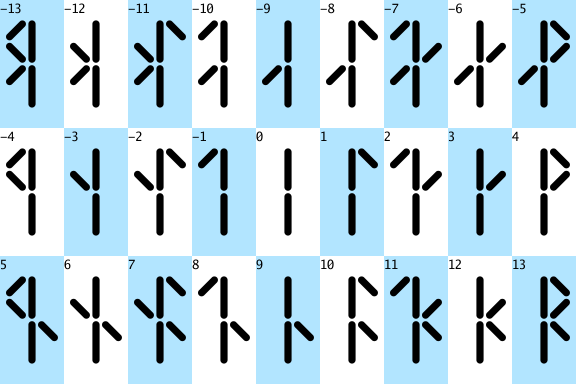
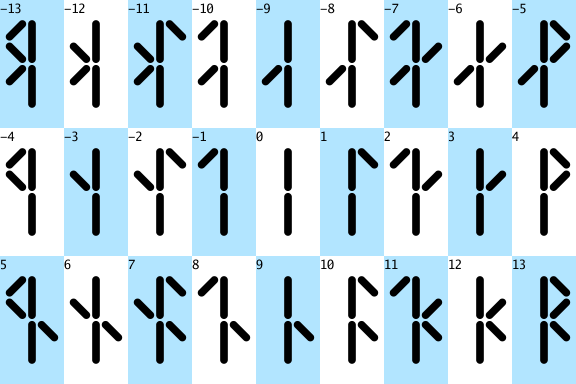
ref base27 digit2

diff --git a/digits/base27/dd2.go b/digits/base27/dd2.go
@@ -8,50 +8,148 @@ import (
 
 type DigitDrawer2 struct{}
 
-func (DigitDrawer2) DrawDigit(c *gg.Context, b geom.Bounds, digit int) {
+func (dd DigitDrawer2) DrawDigit(c *gg.Context, b geom.Bounds, digit int) {
+	//dd.drawDigit_v1(c, b, digit)
+	dd.drawDigit_v2(c, b, digit)
+}
+
+// func (DigitDrawer2) drawDigit_v1(c *gg.Context, b geom.Bounds, digit int) {
+
+// 	b = geom.BoundsAspect(b, AspectRatio)
+
+// 	const (
+// 		koefDA = 0.4
+// 		//koefDA = 0.5
+
+// 		koefLineWidth = 0.75
+// 		//koefLineWidth = 0.8
+// 		//koefLineWidth = 0.9
+// 		//koefLineWidth = 1.0
+
+// 		//enableAll = true
+// 		enableAll = false
+// 	)
+
+// 	var (
+// 		w = min(b.Dx(), b.Dy()/2)
+
+// 		dA = w / 2 * koefDA
+// 		dB = (w/2 - dA) / 2
+
+// 		xA = dA
+// 		xB = dB
+
+// 		yA = dA
+// 		yB = dB
+
+// 		lineWidth = dB * koefLineWidth
+// 	)
+
+// 	c.SetLineCap(gg.LineCapRound)
+// 	c.SetLineWidth(lineWidth)
+
+// 	center := b.Center()
+
+// 	// Draw vertical lines
+// 	if true {
+// 		c.MoveTo(center.X, center.Y-(2*yA+yB+yB/2))
+// 		c.LineTo(center.X, center.Y-(yB/2))
+
+// 		c.MoveTo(center.X, center.Y+(yB/2))
+// 		c.LineTo(center.X, center.Y+(2*yA+yB+yB/2))
+// 	}
+
+// 	trits := calcTritsBase27(digit)
+
+// 	var (
+// 		x1 = xB
+// 		x2 = xA + xB
+
+// 		y0 = center.Y - (2*yA + yB + yB/2)
+// 		y  = y0
+// 		dy = yA + yB
+// 	)
+// 	for i, trit := range trits {
+// 		if (i % 2) == 0 {
+// 			if enableAll || (trit == -1) {
+// 				c.MoveTo(center.X-x1, y+0*yA)
+// 				c.LineTo(center.X-x2, y+1*yA)
+// 			}
+// 			if enableAll || (trit == +1) {
+// 				c.MoveTo(center.X+x1, y+0*yA)
+// 				c.LineTo(center.X+x2, y+1*yA)
+// 			}
+// 		} else {
+// 			if enableAll || (trit == -1) {
+// 				c.MoveTo(center.X-x2, y+0*yA)
+// 				c.LineTo(center.X-x1, y+1*yA)
+// 			}
+// 			if enableAll || (trit == +1) {
+// 				c.MoveTo(center.X+x2, y+0*yA)
+// 				c.LineTo(center.X+x1, y+1*yA)
+// 			}
+// 		}
+// 		y += dy
+// 	}
+
+// 	c.Stroke()
+// }
+
+func (DigitDrawer2) drawDigit_v2(c *gg.Context, b geom.Bounds, digit int) {
 
 	b = geom.BoundsAspect(b, AspectRatio)
 
-	const (
-		koefDA = 0.4
-		//koefDA = 0.5
+	v := b.Vmin()
 
-		koefLineWidth = 0.75
-		//koefLineWidth = 0.8
-		//koefLineWidth = 0.9
-		//koefLineWidth = 1.0
+	c.Push()
+	defer c.Pop()
 
-		//enableAll = true
-		enableAll = false
+	c.Translate(b.Min.X, b.Min.Y)
+	c.Scale(v, v)
+
+	// size 100x200 : dx = 100, dy = 200
+
+	var (
+		// dA              = 20.0
+		// dB              = 20.0
+		// lineWidthFactor = 1.0
+
+		// dA            = 20.0
+		// dB            = 15.0
+		// lineWidthFactor = 0.8
+
+		dA              = 20.0
+		dB              = (50 - dA) / 2
+		lineWidthFactor = 0.8
 	)
 
 	var (
-		w = min(b.Dx(), b.Dy()/2)
-
-		dA = w / 2 * koefDA
-		dB = (w/2 - dA) / 2
-
 		xA = dA
 		xB = dB
 
 		yA = dA
 		yB = dB
 
-		lineWidth = dB * koefLineWidth
+		lineWidth = dB * lineWidthFactor
+
+		//enableAll = true
+		enableAll = false
 	)
 
 	c.SetLineCap(gg.LineCapRound)
-	c.SetLineWidth(lineWidth)
+	c.SetLineWidth(lineWidth * v)
 
-	center := b.Center()
+	center := geom.MakePoint2f(50, 100)
+
+	yH := 2*yA + yB + yB/2
 
 	// Draw vertical lines
 	if true {
-		c.MoveTo(center.X, center.Y-(2*yA+yB+yB/2))
+		c.MoveTo(center.X, center.Y-yH)
 		c.LineTo(center.X, center.Y-(yB/2))
 
 		c.MoveTo(center.X, center.Y+(yB/2))
-		c.LineTo(center.X, center.Y+(2*yA+yB+yB/2))
+		c.LineTo(center.X, center.Y+yH)
 	}
 
 	trits := calcTritsBase27(digit)
@@ -60,7 +158,7 @@ func (DigitDrawer2) DrawDigit(c *gg.Context, b geom.Bounds, digit int) {
 		x1 = xB
 		x2 = xA + xB
 
-		y0 = center.Y - (2*yA + yB + yB/2)
+		y0 = center.Y - yH
 		y  = y0
 		dy = yA + yB
 	)
@@ -89,74 +187,3 @@ func (DigitDrawer2) DrawDigit(c *gg.Context, b geom.Bounds, digit int) {
 
 	c.Stroke()
 }
-
-// func (DigitDrawer2) DrawDigit(c *gg.Context, b geom.Bounds, digit int) {
-
-// 	b = geom.BoundsAspect(b, AspectRatio)
-// 	v := b.Vmin()
-
-// 	c.Push()
-// 	defer c.Pop()
-
-// 	c.Translate(b.Min.X, b.Min.Y)
-// 	c.Scale(v, v)
-
-// 	lw := 10.0
-// 	c.SetLineWidth(lw * v)
-// 	c.SetLineCap(gg.LineCapRound)
-// 	c.SetRGB(0, 0, 0)
-
-// 	bs := make([]int, 3)
-// 	calcDigits(digit, bs)
-
-// 	var (
-// 		// xs = []float64{10, 50, 90}
-// 		// ys = []float64{20, 60, 100, 140, 180}
-
-// 		xs = []float64{15, 50, 85}
-// 		ys = []float64{30, 65, 100, 135, 170}
-// 	)
-
-// 	drawLineSegment(c, pt(xs[1], ys[0]), pt(xs[1], ys[2]))
-// 	drawLineSegment(c, pt(xs[1], ys[2]), pt(xs[1], ys[4]))
-
-// 	switch d := bs[0]; d {
-// 	case -1:
-// 		drawLineSegment(c, pt(xs[1], ys[0]), pt(xs[0], ys[1]))
-// 	case +1:
-// 		drawLineSegment(c, pt(xs[1], ys[0]), pt(xs[2], ys[1]))
-// 	default:
-// 	}
-
-// 	switch d := bs[1]; d {
-// 	case -1:
-// 		drawLineSegment(c, pt(xs[1], ys[2]), pt(xs[0], ys[1]))
-// 	case +1:
-// 		drawLineSegment(c, pt(xs[1], ys[2]), pt(xs[2], ys[1]))
-// 	default:
-// 	}
-
-// 	switch d := bs[2]; d {
-// 	case -1:
-// 		drawLineSegment(c, pt(xs[1], ys[2]), pt(xs[0], ys[3]))
-// 	case +1:
-// 		drawLineSegment(c, pt(xs[1], ys[2]), pt(xs[2], ys[3]))
-// 	default:
-// 	}
-
-// 	c.Stroke()
-// }
-
-// func pt(x, y float64) geom.Point2f {
-// 	return geom.MakePoint2f(x, y)
-// }
-
-// func drawLineSegment(c *gg.Context, a, b geom.Point2f) {
-// 	const k = 0.1
-// 	var (
-// 		a1 = geom.PtLerp(a, b, k)
-// 		b1 = geom.PtLerp(a, b, 1-k)
-// 	)
-// 	c.MoveTo(a1.X, a1.Y)
-// 	c.LineTo(b1.X, b1.Y)
-// }

diff --git a/geom/utils.go b/geom/utils.go
@@ -24,4 +24,8 @@ func lerp(v0, v1 float64, t float64) float64 {
 	return (1-t)*v0 + t*v1
 }
 
+func Lerp(v0, v1 float64, t float64) float64 {
+	return lerp(v0, v1, t)
+}
+
 //------------------------------------------------------------------------------
